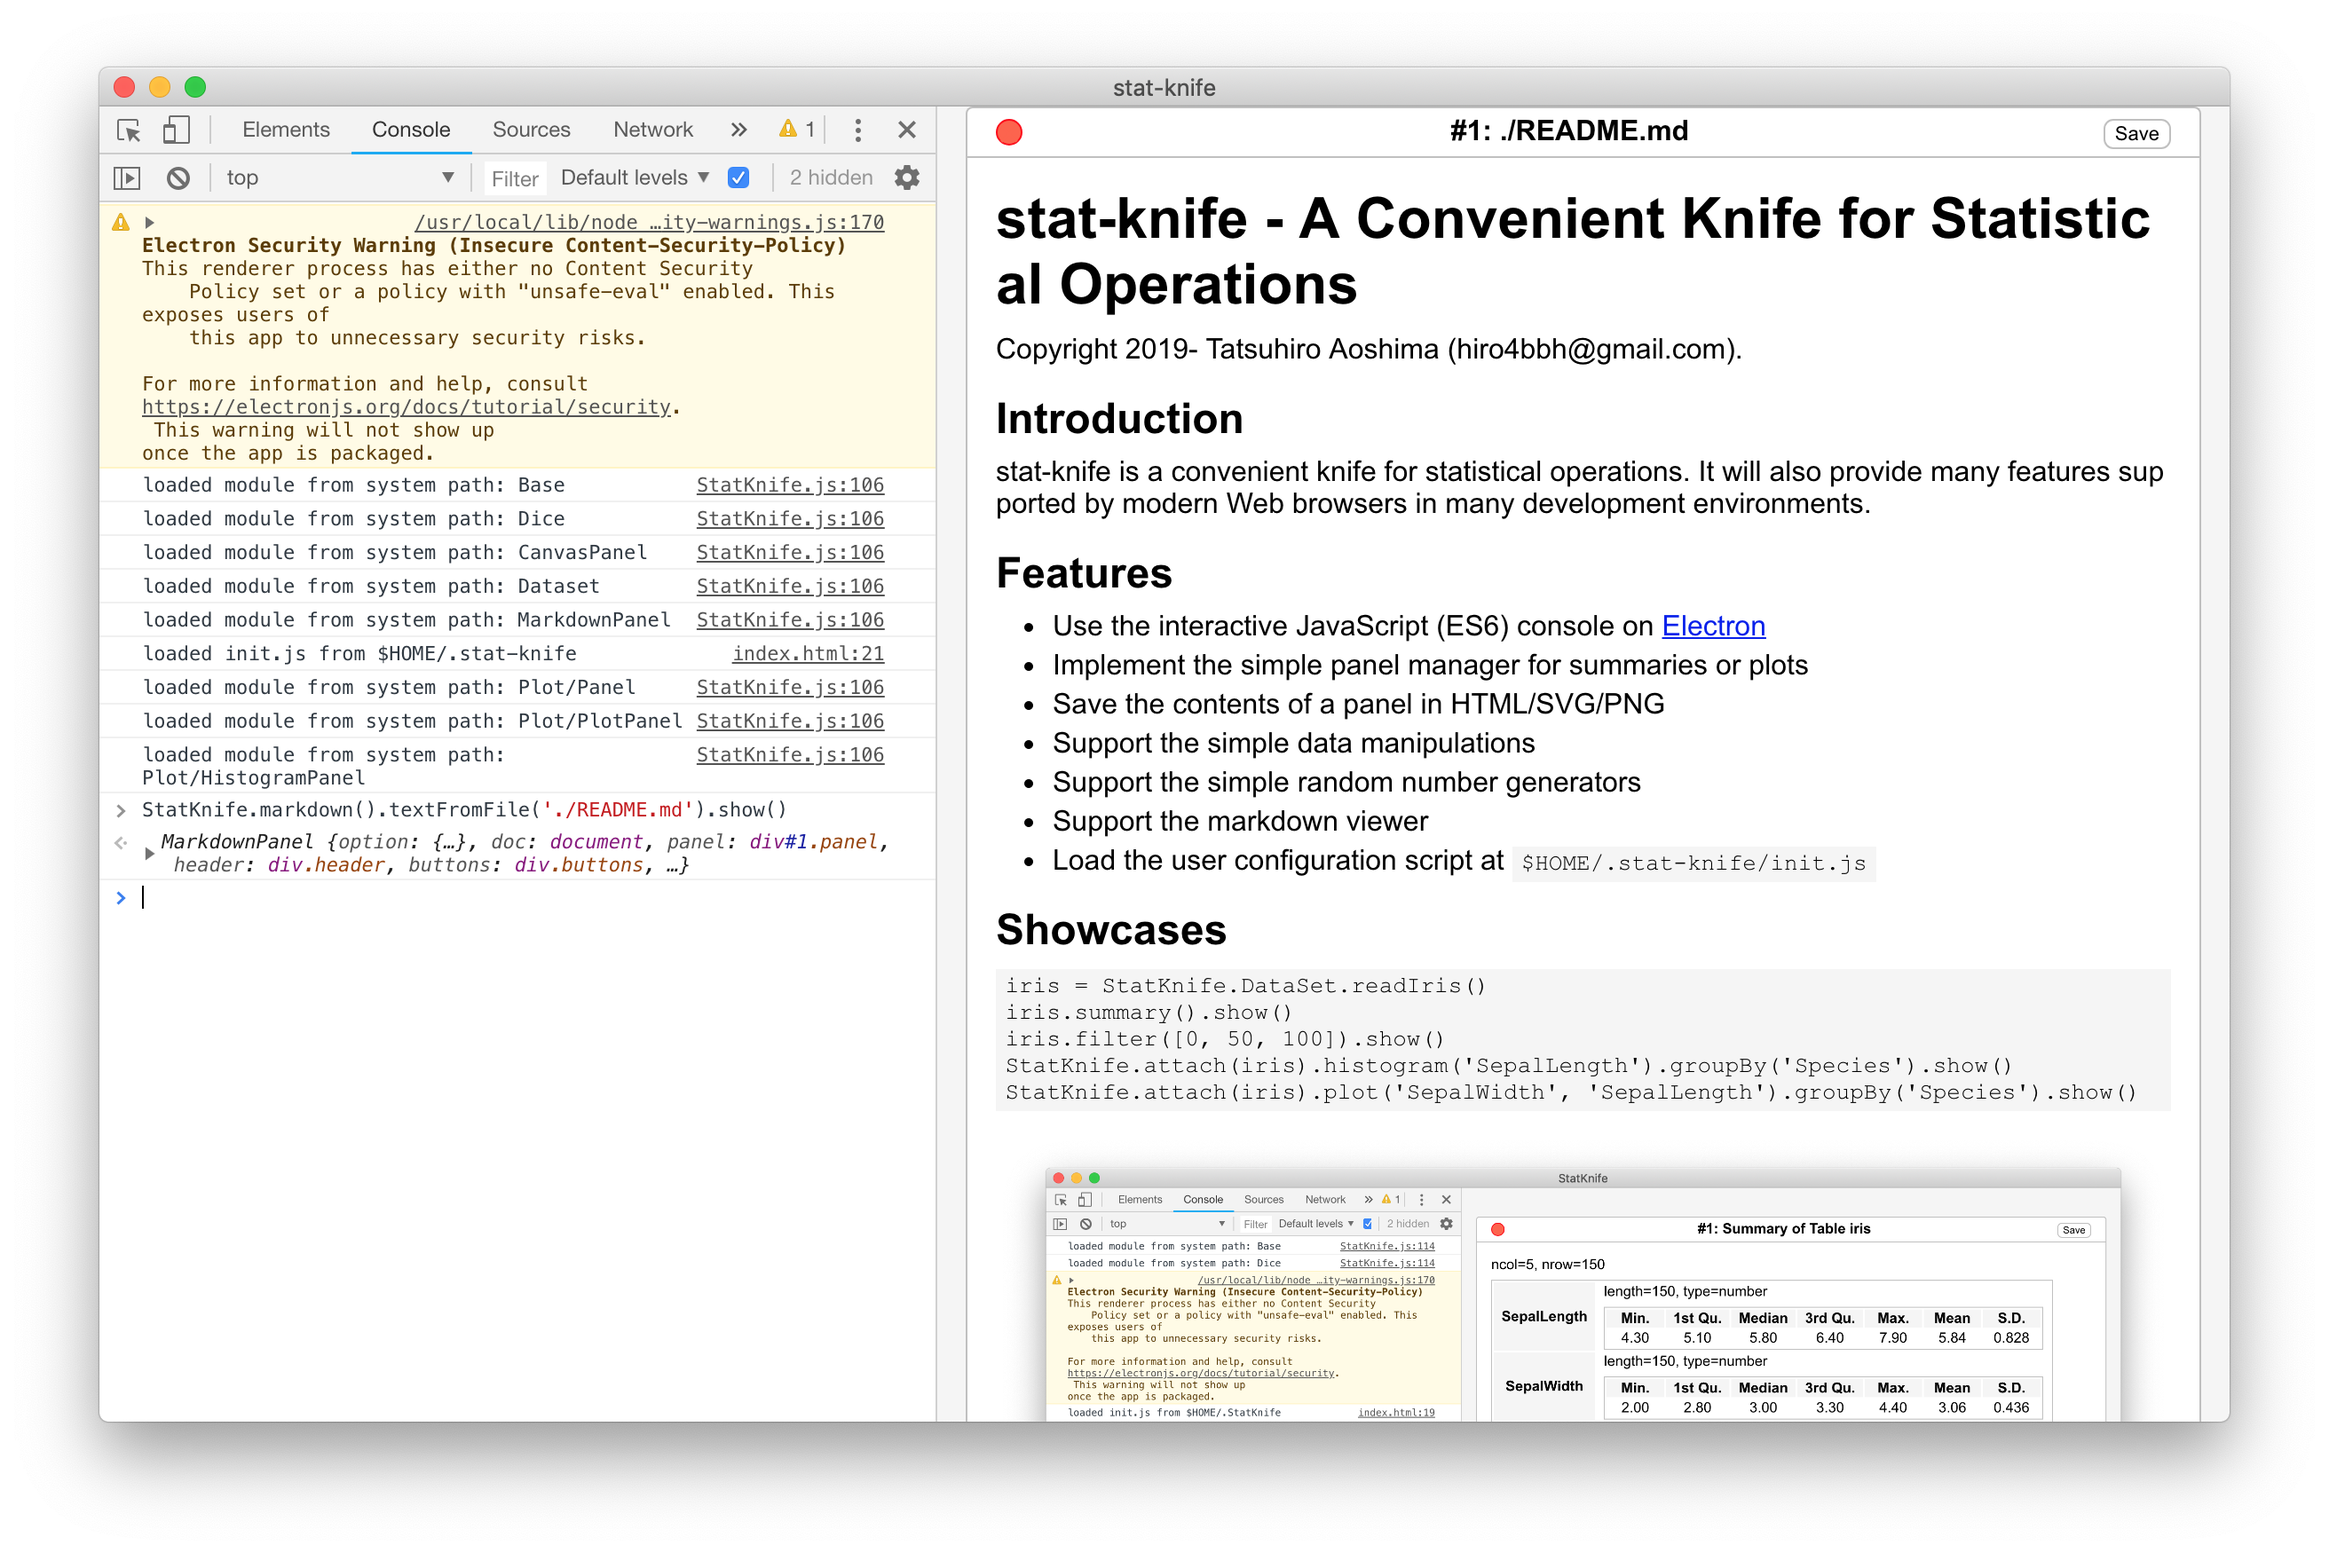
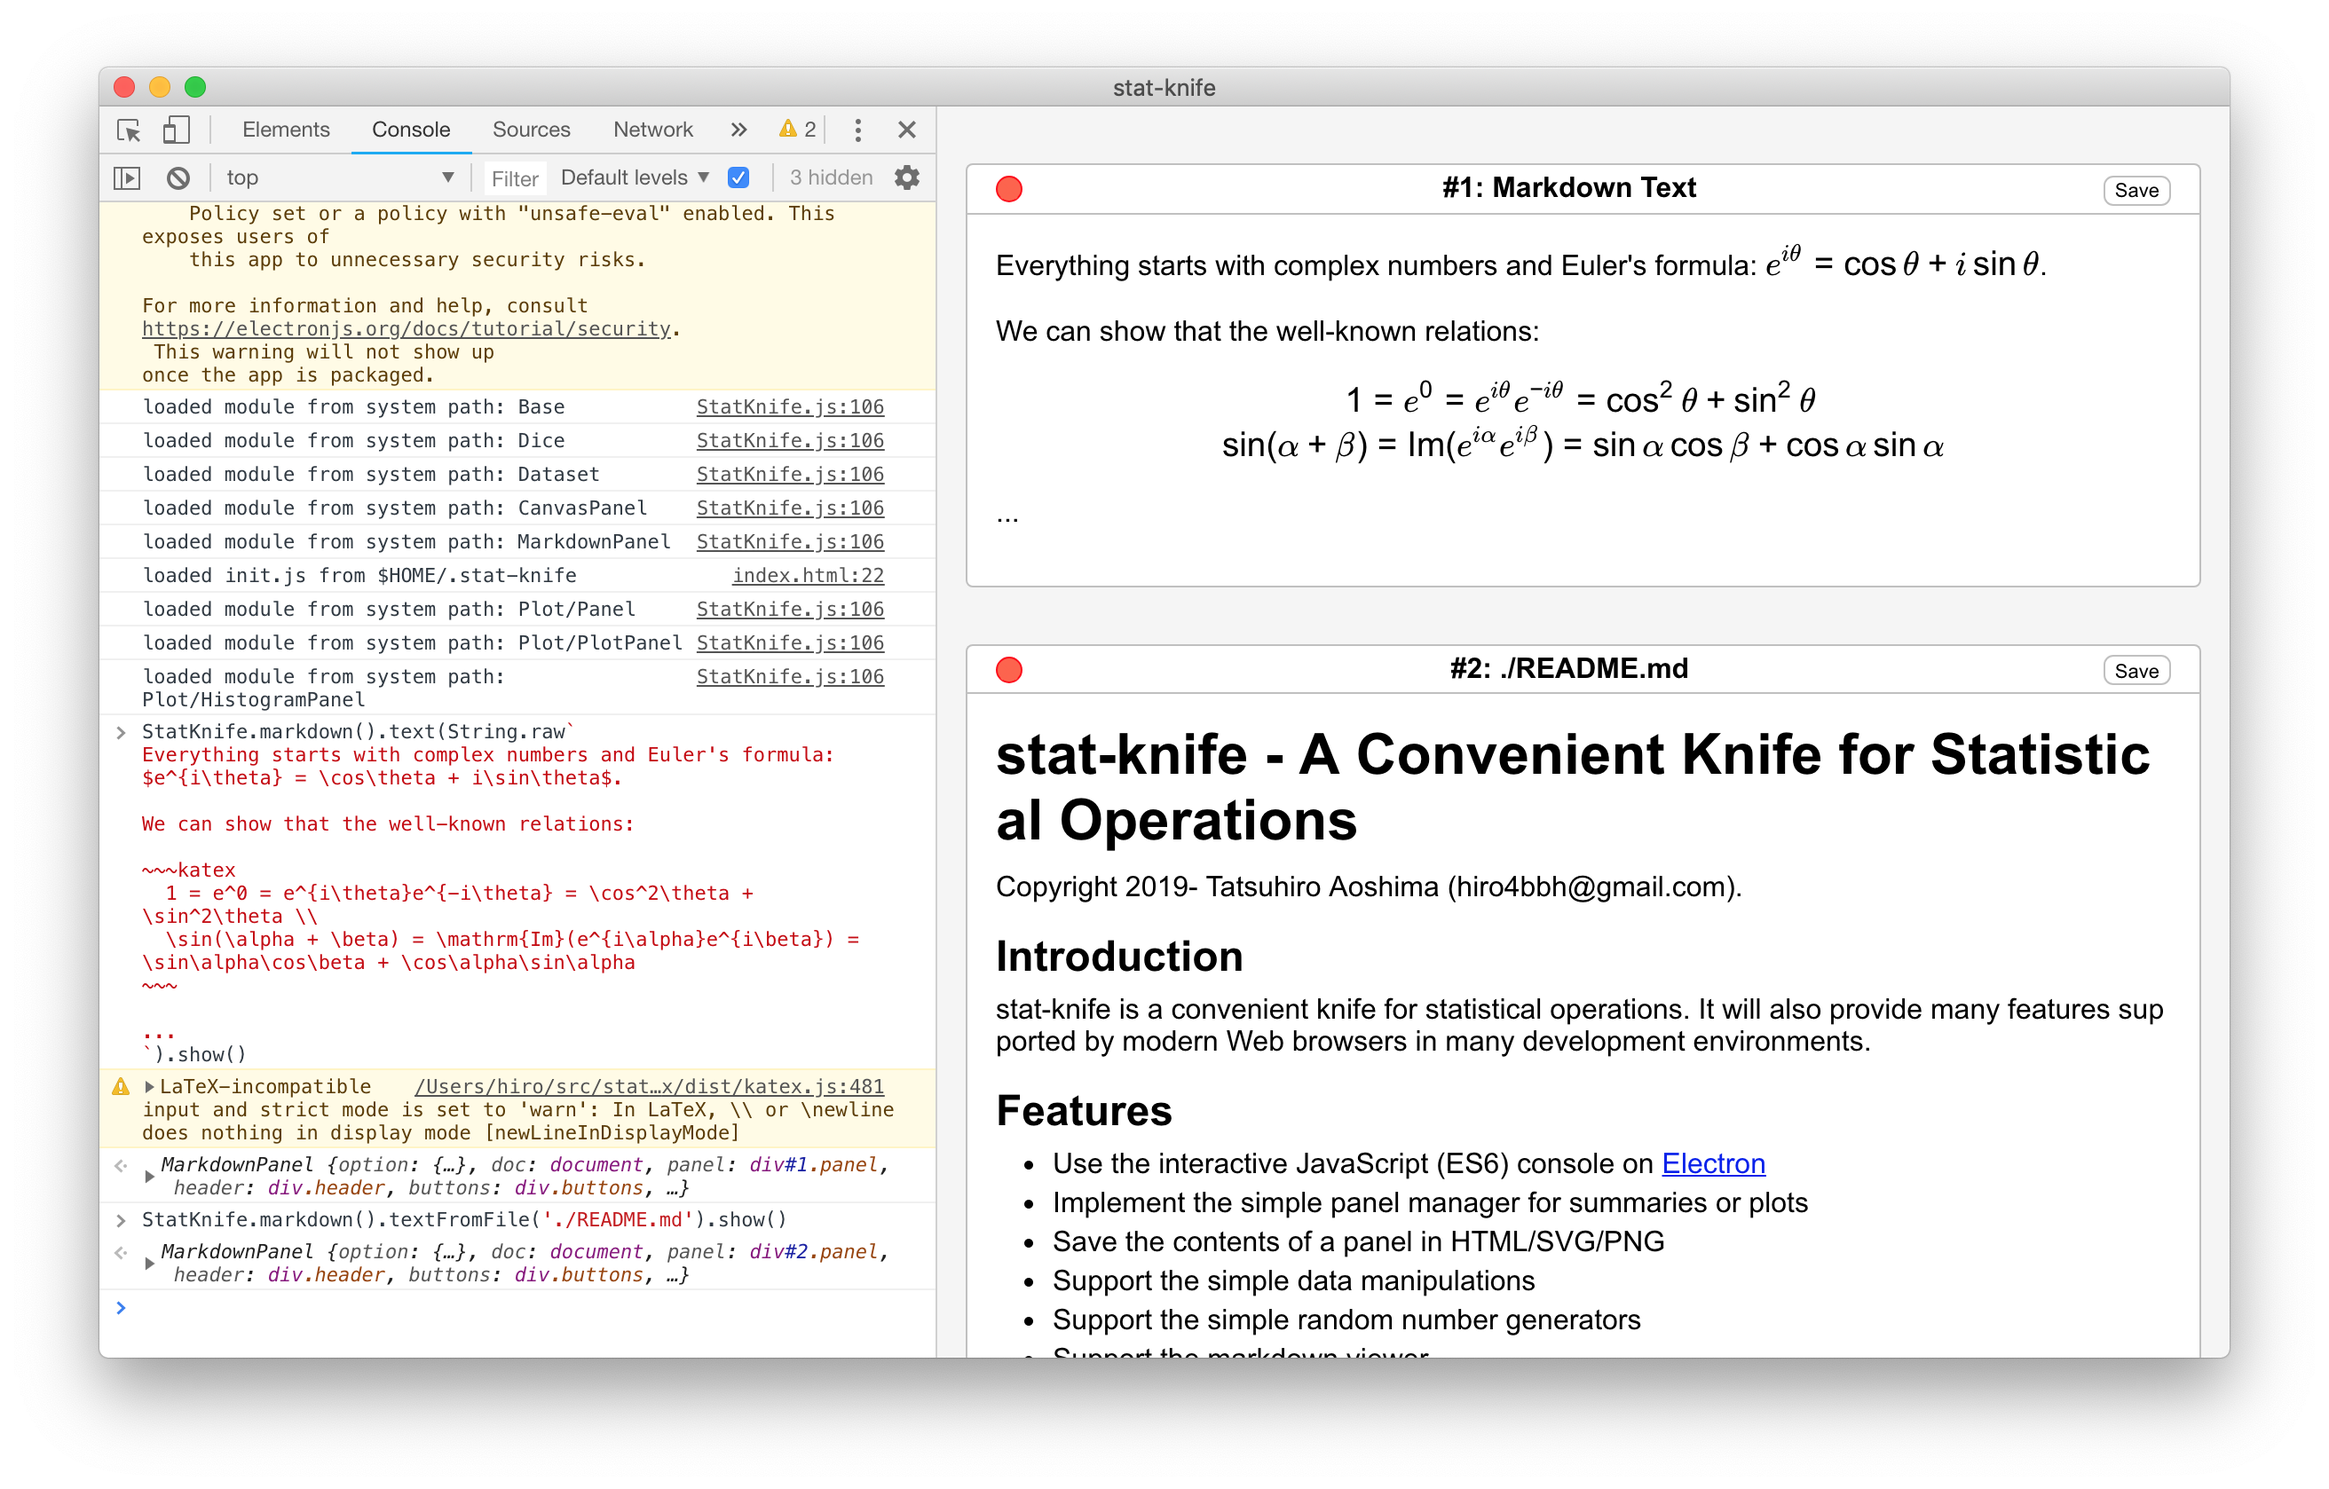
Supported LaTeX equation rendering

diff --git a/lib/MarkdownPanel.js b/lib/MarkdownPanel.js
@@ -1,5 +1,55 @@
 const fs = require('fs');
-const MarkdownIt = require('markdown-it');
+const MarkdownIt = require('markdown-it')({
+  highlight: function (content, lang) {
+    if (lang && lang == 'katex') {
+      try {
+        return katex.renderToString(content, {displayMode: true, throwOnError: false});
+      } catch (_) {}
+    }
+    // Use the external default escaping.
+    return '';
+  },
+});
+const katex = require('katex');
+
+function mditInlineKatex(state, silent) {
+  // Find the region enclosed with `$`.
+  const startp = state.pos, posMax = state.posMax;
+  if (state.src.charAt(startp) != '$') {
+    return false;
+  }
+  if (silent) {
+    return false;
+  }
+  if (startp + 2 >= posMax) {
+    return false;
+  }
+  let found = false;
+  state.pos = startp + 1;
+  while (state.pos < posMax) {
+    if (state.src.charAt(state.pos) == '$') {
+      found = true;
+      break;
+    }
+    state.md.inline.skipToken(state);
+  }
+  if (!found || startp + 1 == state.pos) {
+    state.pos = startp;
+    return false;
+  }
+  const content = state.src.slice(startp+1, state.pos);
+  // Interpret the content.
+  state.posMax = state.pos;
+  state.pos = startp + 1;
+  let token = state.push('html_inline', 'html', 0);
+  token.markup  = '$';
+  token.content = katex.renderToString(content, {throwOnError: false});
+  state.pos = state.posMax + 1;
+  state.posMax = posMax;
+  return true;
+}
+
+MarkdownIt.use((mdit) => mdit.inline.ruler.after('text', 'katex', mditInlineKatex));
 
 export default class MarkdownPanel extends StatKnife.Panel {
   static onimported(StatKnife) {
@@ -22,7 +72,7 @@ export default class MarkdownPanel extends StatKnife.Panel {
   }
 
   show() {
-    this.container.innerHTML = (new MarkdownIt()).render(this.text());
+    this.container.innerHTML = MarkdownIt.render(this.text());
     return super.show();
   }
 }

diff --git a/res/style.css b/res/style.css
@@ -14,6 +14,9 @@ code {
   font-family: monospace;
   padding: 0.2em 0.4em;
 }
+code.language-katex {
+  background: transparent;
+}
 h1, h2, h3, h4, h5 {
   padding-bottom: 0.3em;
 }
@@ -113,4 +116,8 @@ button {
 .panel > .container > svg {
   display: block;
   margin: 0 auto;
+}
+
+.katex-display {
+  margin: 0;
 }

diff --git a/index.html b/index.html
@@ -1,6 +1,7 @@
 <!doctype html>
 <html>
   <head>
+    <link rel="stylesheet" href="node_modules/katex/dist/katex.min.css">
     <link rel="stylesheet" href="res/style.css">
   </head>
   <body>

diff --git a/README.md b/README.md
@@ -14,7 +14,7 @@ It will also provide many features supported by modern Web browsers in many deve
 - Save the contents of a panel in HTML/SVG/PNG
 - Support the simple data manipulations
 - Support the simple random number generators
-- Support the markdown viewer
+- Support the markdown rendering with [markdown-it](https://markdown-it.github.io/) and the LaTeX rendering with [KaTeX](https://katex.org/).
 - Load the user configuration script at `$HOME/.stat-knife/init.js`
 
 ## Showcases
@@ -50,6 +50,18 @@ canvas.context.fillStyle = '#0000ff88'; canvas.context.fillRect(200, 200, 250, 2
 ![screenshot 6](doc/res/screenshot6.png "screenshot 6")
 
 ```js
+StatKnife.markdown().text(String.raw`
+Everything starts with complex numbers and Euler's formula: $e^{i\theta} = \cos\theta + i\sin\theta$.
+
+We can show that the well-known relations:
+
+~~~katex
+  1 = e^0 = e^{i\theta}e^{-i\theta} = \cos^2\theta + \sin^2\theta \\
+  \sin(\alpha + \beta) = \mathrm{Im}(e^{i\alpha}e^{i\beta}) = \sin\alpha\cos\beta + \cos\alpha\sin\alpha
+~~~
+
+...
+`).show()
 StatKnife.markdown().textFromFile('./README.md').show()
 ```
 
